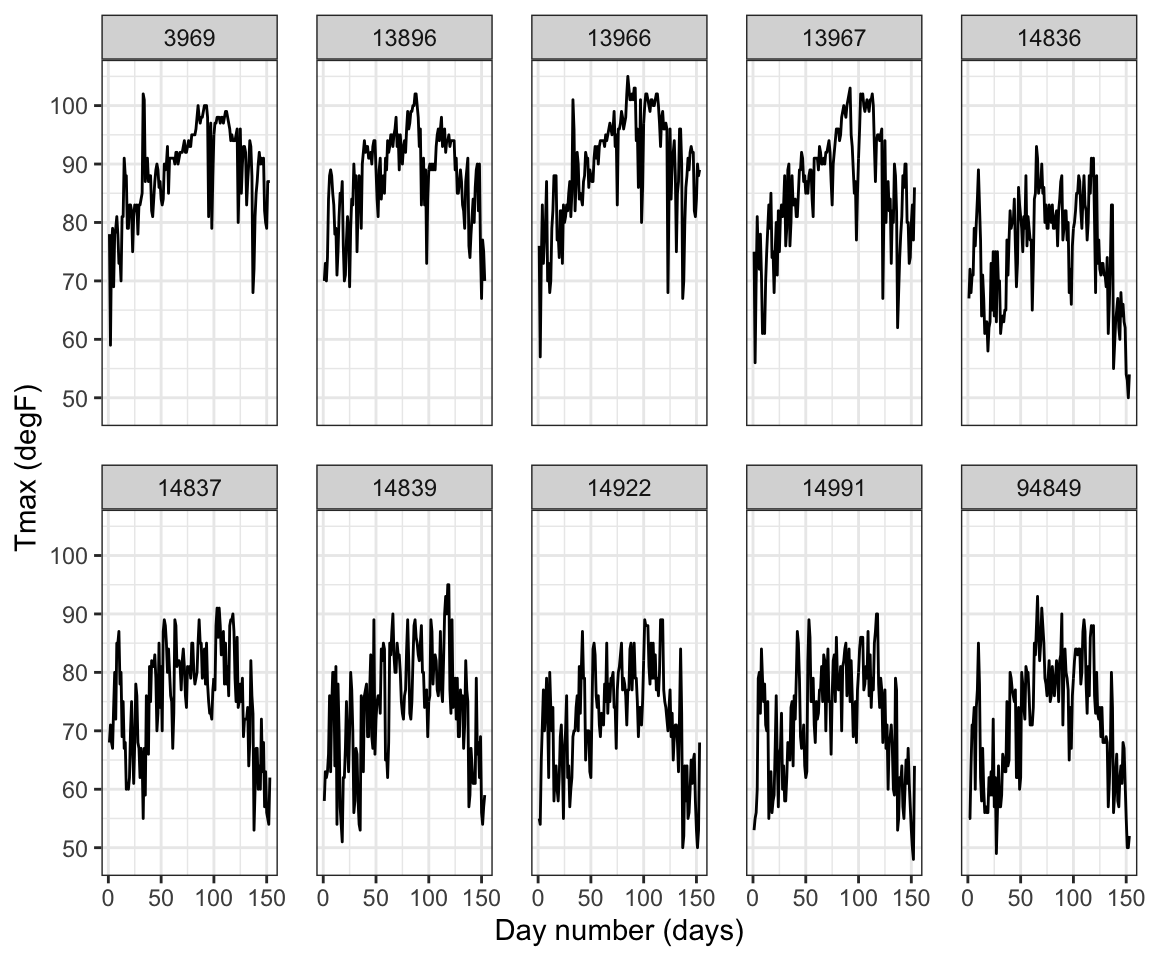
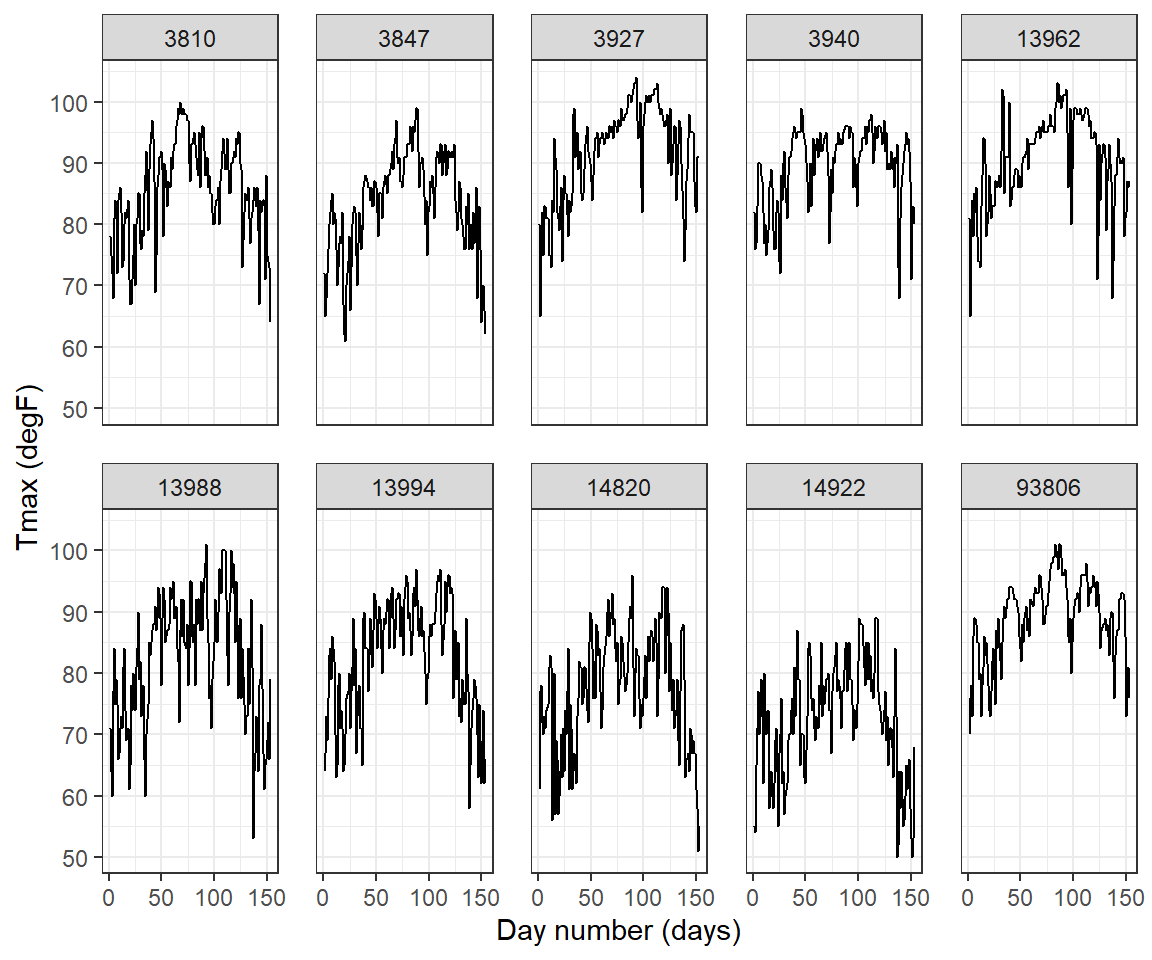
Updated

diff --git a/Week11.html b/Week11.html
@@ -13,22 +13,36 @@
 
 <title>Week 11: Visulization of Spatio-Temporal Data (Optional)</title>
 
-<script src="site_libs/jquery-1.11.3/jquery.min.js"></script>
+<script src="site_libs/header-attrs-2.19/header-attrs.js"></script>
+<script src="site_libs/jquery-3.6.0/jquery-3.6.0.min.js"></script>
 <meta name="viewport" content="width=device-width, initial-scale=1" />
 <link href="site_libs/bootstrap-3.3.5/css/cosmo.min.css" rel="stylesheet" />
 <script src="site_libs/bootstrap-3.3.5/js/bootstrap.min.js"></script>
 <script src="site_libs/bootstrap-3.3.5/shim/html5shiv.min.js"></script>
 <script src="site_libs/bootstrap-3.3.5/shim/respond.min.js"></script>
+<style>h1 {font-size: 34px;}
+       h1.title {font-size: 38px;}
+       h2 {font-size: 30px;}
+       h3 {font-size: 24px;}
+       h4 {font-size: 18px;}
+       h5 {font-size: 16px;}
+       h6 {font-size: 12px;}
+       code {color: inherit; background-color: rgba(0, 0, 0, 0.04);}
+       pre:not([class]) { background-color: white }</style>
 <script src="site_libs/navigation-1.1/tabsets.js"></script>
 <link href="site_libs/highlightjs-9.12.0/textmate.css" rel="stylesheet" />
 <script src="site_libs/highlightjs-9.12.0/highlight.js"></script>
 
-<style type="text/css">code{white-space: pre;}</style>
 <style type="text/css">
-  pre:not([class]) {
-    background-color: white;
-  }
-</style>
+  code{white-space: pre-wrap;}
+  span.smallcaps{font-variant: small-caps;}
+  span.underline{text-decoration: underline;}
+  div.column{display: inline-block; vertical-align: top; width: 50%;}
+  div.hanging-indent{margin-left: 1.5em; text-indent: -1.5em;}
+  ul.task-list{list-style: none;}
+    </style>
+
+<style type="text/css">code{white-space: pre;}</style>
 <script type="text/javascript">
 if (window.hljs) {
   hljs.configure({languages: []});
@@ -41,32 +55,8 @@ if (window.hljs) {
 
 
 
-<style type="text/css">
-h1 {
-  font-size: 34px;
-}
-h1.title {
-  font-size: 38px;
-}
-h2 {
-  font-size: 30px;
-}
-h3 {
-  font-size: 24px;
-}
-h4 {
-  font-size: 18px;
-}
-h5 {
-  font-size: 16px;
-}
-h6 {
-  font-size: 12px;
-}
-.table th:not([align]) {
-  text-align: left;
-}
-</style>
+
+
 
 
 
@@ -76,10 +66,6 @@ h6 {
   max-width: 940px;
   margin-left: auto;
   margin-right: auto;
-}
-code {
-  color: inherit;
-  background-color: rgba(0, 0, 0, 0.04);
 }
 img {
   max-width:100%;
@@ -96,40 +82,16 @@ button.code-folding-btn:focus {
 summary {
   display: list-item;
 }
+details > summary > p:only-child {
+  display: inline;
+}
+pre code {
+  padding: 0;
+}
 </style>
 
 
 <style type="text/css">
-/* padding for bootstrap navbar */
-body {
-  padding-top: 51px;
-  padding-bottom: 40px;
-}
-/* offset scroll position for anchor links (for fixed navbar)  */
-.section h1 {
-  padding-top: 56px;
-  margin-top: -56px;
-}
-.section h2 {
-  padding-top: 56px;
-  margin-top: -56px;
-}
-.section h3 {
-  padding-top: 56px;
-  margin-top: -56px;
-}
-.section h4 {
-  padding-top: 56px;
-  margin-top: -56px;
-}
-.section h5 {
-  padding-top: 56px;
-  margin-top: -56px;
-}
-.section h6 {
-  padding-top: 56px;
-  margin-top: -56px;
-}
 .dropdown-submenu {
   position: relative;
 }
@@ -157,7 +119,7 @@ body {
   margin-right: -10px;
 }
 .dropdown-submenu:hover>a:after {
-  border-left-color: #ffffff;
+  border-left-color: #adb5bd;
 }
 .dropdown-submenu.pull-left {
   float: none;
@@ -169,7 +131,7 @@ body {
 }
 </style>
 
-<script>
+<script type="text/javascript">
 // manage active state of menu based on current page
 $(document).ready(function () {
   // active menu anchor
@@ -179,11 +141,28 @@ $(document).ready(function () {
     href = "index.html";
   var menuAnchor = $('a[href="' + href + '"]');
 
-  // mark it active
-  menuAnchor.parent().addClass('active');
+  // mark the anchor link active (and if it's in a dropdown, also mark that active)
+  var dropdown = menuAnchor.closest('li.dropdown');
+  if (window.bootstrap) { // Bootstrap 4+
+    menuAnchor.addClass('active');
+    dropdown.find('> .dropdown-toggle').addClass('active');
+  } else { // Bootstrap 3
+    menuAnchor.parent().addClass('active');
+    dropdown.addClass('active');
+  }
 
-  // if it's got a parent navbar menu mark it active as well
-  menuAnchor.closest('li.dropdown').addClass('active');
+  // Navbar adjustments
+  var navHeight = $(".navbar").first().height() + 15;
+  var style = document.createElement('style');
+  var pt = "padding-top: " + navHeight + "px; ";
+  var mt = "margin-top: -" + navHeight + "px; ";
+  var css = "";
+  // offset scroll position for anchor links (for fixed navbar)
+  for (var i = 1; i <= 6; i++) {
+    css += ".section h" + i + "{ " + pt + mt + "}\n";
+  }
+  style.innerHTML = "body {" + pt + "padding-bottom: 40px; }\n" + css;
+  document.head.appendChild(style);
 });
 </script>
 
@@ -195,13 +174,12 @@ $(document).ready(function () {
   max-height: 500px;
   min-height: 44px;
   overflow-y: auto;
-  background: white;
   border: 1px solid #ddd;
   border-radius: 4px;
 }
 
-.tabset-dropdown > .nav-tabs > li.active:before {
-  content: "";
+.tabset-dropdown > .nav-tabs > li.active:before, .tabset-dropdown > .nav-tabs.nav-tabs-open:before {
+  content: "\e259";
   font-family: 'Glyphicons Halflings';
   display: inline-block;
   padding: 10px;
@@ -209,16 +187,9 @@ $(document).ready(function () {
 }
 
 .tabset-dropdown > .nav-tabs.nav-tabs-open > li.active:before {
-  content: "&#xe258;";
-  border: none;
-}
-
-.tabset-dropdown > .nav-tabs.nav-tabs-open:before {
-  content: "";
+  content: "\e258";
   font-family: 'Glyphicons Halflings';
-  display: inline-block;
-  padding: 10px;
-  border-right: 1px solid #ddd;
+  border: none;
 }
 
 .tabset-dropdown > .nav-tabs > li.active {
@@ -262,7 +233,7 @@ $(document).ready(function () {
 <div class="navbar navbar-default  navbar-fixed-top" role="navigation">
   <div class="container">
     <div class="navbar-header">
-      <button type="button" class="navbar-toggle collapsed" data-toggle="collapse" data-target="#navbar">
+      <button type="button" class="navbar-toggle collapsed" data-toggle="collapse" data-bs-toggle="collapse" data-target="#navbar" data-bs-target="#navbar">
         <span class="icon-bar"></span>
         <span class="icon-bar"></span>
         <span class="icon-bar"></span>
@@ -304,6 +275,9 @@ $(document).ready(function () {
 <li>
   <a href="Week11.html">Week 11</a>
 </li>
+<li>
+  <a href="WeekX.html">WeekX</a>
+</li>
       </ul>
       <ul class="nav navbar-nav navbar-right">
         
@@ -312,35 +286,45 @@ $(document).ready(function () {
   </div><!--/.container -->
 </div><!--/.navbar -->
 
-<div class="fluid-row" id="header">
+<div id="header">
 
 
 
-<h1 class="title toc-ignore">Week 11: Visulization of Spatio-Temporal Data (Optional)</h1>
+<h1 class="title toc-ignore">Week 11: Visulization of Spatio-Temporal
+Data (Optional)</h1>
 
 </div>
 
 <div id="TOC">
 <ul>
-<li><a href="#introduction"><span class="toc-section-number">1</span> Introduction</a></li>
-<li><a href="#spatial-plots"><span class="toc-section-number">2</span> Spatial Plots</a></li>
-<li><a href="#time-series-plots"><span class="toc-section-number">3</span> Time-Series Plots</a></li>
+<li><a href="#introduction" id="toc-introduction"><span
+class="toc-section-number">1</span> Introduction</a></li>
+<li><a href="#spatial-plots" id="toc-spatial-plots"><span
+class="toc-section-number">2</span> Spatial Plots</a></li>
+<li><a href="#time-series-plots" id="toc-time-series-plots"><span
+class="toc-section-number">3</span> Time-Series Plots</a></li>
 </ul>
 </div>
 
 <div style="margin-bottom:50px;">
 
 </div>
-<div id="introduction" class="section level1">
+<p><span style="color: red;">Due to the Easter Break, this Lab will be
+held in Week 12. </span></p>
+<div id="introduction" class="section level1" number="1">
 <h1><span class="header-section-number">1</span> Introduction</h1>
 <ul>
-<li>In Lab 11, we will follow Lab 2.2 of <em>Spatio-Temporal Statistics with R</em>. You can download the electronic pdf through <a href="https://spacetimewithr.org/" class="uri">https://spacetimewithr.org/</a>.
+<li>In Lab 11, we will follow Lab 2.2 of <em>Spatio-Temporal Statistics
+with R</em>. You can download the electronic pdf through <a
+href="https://spacetimewithr.org/"
+class="uri">https://spacetimewithr.org/</a>.
 <ul>
-<li>In this document, I will only highlight some important points; that is, the visulization of spatio-temporal data.</li>
+<li>In this document, I will only highlight some important points; that
+is, the visulization of spatio-temporal data.</li>
 </ul></li>
 </ul>
 </div>
-<div id="spatial-plots" class="section level1">
+<div id="spatial-plots" class="section level1" number="2">
 <h1><span class="header-section-number">2</span> Spatial Plots</h1>
 <ul>
 <li>First, we load the dataset.
@@ -366,10 +350,13 @@ head(Tmax)</code></pre>
 ## 5 728054 1993     5   5 3804 73 Tmax 39.35 -81.43333 1993-05-05 5
 ## 6 728055 1993     5   6 3804 78 Tmax 39.35 -81.43333 1993-05-06 6</code></pre>
 <ul>
-<li>Next, the plot will be produced by package <em>ggplot2</em>. The new function here
+<li>Next, the plot will be produced by package <em>ggplot2</em>. The new
+function here
 <ul>
-<li>geom_path: add US states map. You can replace these US map with Australia ones from Week 7 Lab.</li>
-<li>facet_grid(~date): for each date (1, 15 and 30), produce a plot.</li>
+<li>geom_path: add US states map. You can replace these US map with
+Australia ones from Week 7 Lab.</li>
+<li>facet_grid(~date): for each date (1, 15 and 30), produce a
+plot.</li>
 </ul></li>
 </ul>
 <pre class="r"><code>Tmax_1 = Tmax %&gt;% filter(t %in% c(1, 15, 30))  # extract data
@@ -393,7 +380,7 @@ NOAA_plot &lt;- ggplot(Tmax_1) +                              # plot points
 NOAA_plot</code></pre>
 <p><img src="Week11_files/figure-html/unnamed-chunk-2-1.png" width="576" style="display: block; margin: auto;" /></p>
 </div>
-<div id="time-series-plots" class="section level1">
+<div id="time-series-plots" class="section level1" number="3">
 <h1><span class="header-section-number">3</span> Time-Series Plots</h1>
 <p>First, we randomly select 10 station for visualization.</p>
 <pre class="r"><code>UIDs &lt;- unique(Tmax$id)                     # extract IDs
@@ -401,12 +388,12 @@ UIDs_sub &lt;- sample(UIDs, 10)                # sample 10 IDs
 Tmax_sub &lt;- filter(Tmax, id %in% UIDs_sub)  # subset data
 head(Tmax_sub)</code></pre>
 <pre><code>##   julian year month day   id  z proc      lat       lon       date t
-## 1 728050 1993     5   1 3969 78 Tmax 32.21667 -98.18333 1993-05-01 1
-## 2 728051 1993     5   2 3969 59 Tmax 32.21667 -98.18333 1993-05-02 2
-## 3 728052 1993     5   3 3969 76 Tmax 32.21667 -98.18333 1993-05-03 3
-## 4 728053 1993     5   4 3969 79 Tmax 32.21667 -98.18333 1993-05-04 4
-## 5 728054 1993     5   5 3969 69 Tmax 32.21667 -98.18333 1993-05-05 5
-## 6 728055 1993     5   6 3969 78 Tmax 32.21667 -98.18333 1993-05-06 6</code></pre>
+## 1 728050 1993     5   1 3810 78 Tmax 35.73333 -81.38333 1993-05-01 1
+## 2 728051 1993     5   2 3810 75 Tmax 35.73333 -81.38333 1993-05-02 2
+## 3 728052 1993     5   3 3810 72 Tmax 35.73333 -81.38333 1993-05-03 3
+## 4 728053 1993     5   4 3810 68 Tmax 35.73333 -81.38333 1993-05-04 4
+## 5 728054 1993     5   5 3810 81 Tmax 35.73333 -81.38333 1993-05-05 5
+## 6 728055 1993     5   6 3810 84 Tmax 35.73333 -81.38333 1993-05-06 6</code></pre>
 <p>Next, time-series is plotted.</p>
 <pre class="r"><code>## ------------------------------------------------------------------------
 TmaxTS &lt;- ggplot(Tmax_sub) +
@@ -431,7 +418,7 @@ TmaxTS</code></pre>
 
 // add bootstrap table styles to pandoc tables
 function bootstrapStylePandocTables() {
-  $('tr.header').parent('thead').parent('table').addClass('table table-condensed');
+  $('tr.odd').parent('tbody').parent('table').addClass('table table-condensed');
 }
 $(document).ready(function () {
   bootstrapStylePandocTables();
@@ -449,7 +436,7 @@ $(document).ready(function () {
 
 $(document).ready(function () {
   $('.tabset-dropdown > .nav-tabs > li').click(function () {
-    $(this).parent().toggleClass('nav-tabs-open')
+    $(this).parent().toggleClass('nav-tabs-open');
   });
 });
 </script>
